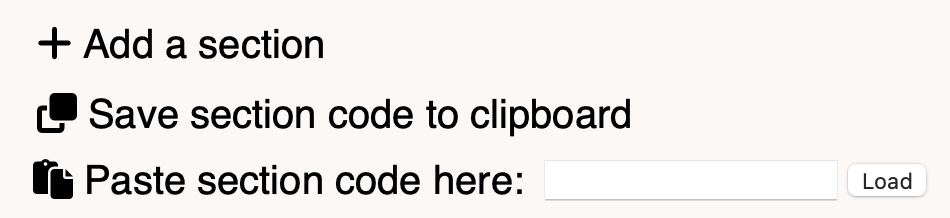
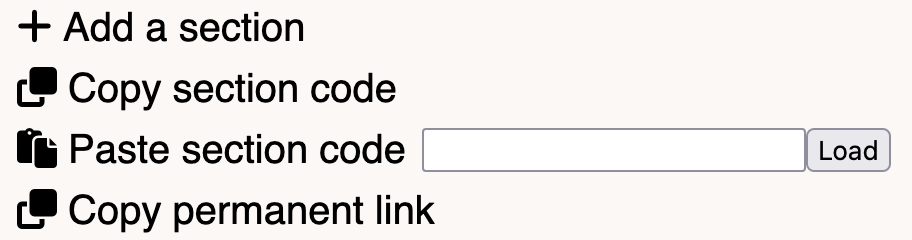
Update help page

Changed region(s): [[0.0, 0.055, 0.9825, 0.9633], [0.8904, 0.7982, 0.9825, 0.9083], [0.5526, 0.9083, 0.8904, 0.9358]]

diff --git a/help.html b/help.html
@@ -54,45 +54,51 @@
             <hr />
             <noscript>This page does not need JavaScript to work, but the app does. Please enable it if you would like to use the app. The code can be found <a href="app.js" rel="nofollow">here</a>.<hr /></noscript>
             <h2 id="overview">Overview</h2>
-            <p>Transcribe is a cross-platform web app free for all to use that allows you to slow down and loop sections of an audio file to make transcription easier. You can <a href="#saving-progress">save and restore your progress</a> to work later on.</p>
+            <p>Transcribe is a free cross-platform web app for slowing down and looping sections of an audio file. You can upload your own audio files or choose from many existing ones in the <a href="library.html">song library</a>.</p>
             <div class="link-button-container">
                 <a href="index.html" id="app-button" class="link-button" style="display: none;"><strong>Go to app</strong></a>
             </div>
             <img src="assets/img/full-app-example-v1.png" alt="The application in use to transcribe a solo.">
-            <p>If you have any questions not answered by this help page or want further clarification, <a href="https://github.com/ethanuppal/transcribe/issues/new">feel free to send me a question on the project page</a>.</p>
-            <p>If you're wondering how to transcribe, JazzAdvice.com is an excellent resource. <a href="https://www.jazzadvice.com/lessons/getting-started-with-transcription/">This post</a>, for example, has a wealth of information and links to many others.</p>
+            <p>Here are a couple notes:</p>
+            <ul>
+                <li><p>If you have any questions not answered by this help page or want further clarification, <a href="https://github.com/ethanuppal/transcribe/issues/new">feel free to send me a question on the project page</a>.</p></li>
+                <li><p>If you're wondering how to transcribe, JazzAdvice.com is an excellent resource. <a href="https://www.jazzadvice.com/lessons/getting-started-with-transcription/">This post</a>, for example, has a wealth of information and links to many others.</p></li>
+            </ul>
             <h2 id="uploading-files">Uploading Files</h2>
-            <p>To upload a file, simply click the button indicated at the top of the screen. When you upload a file, even if it is the same file as before, all your progress will be cleared, so make sure to save.</p>
+            <p>To upload a file, simply click the button indicated at the top of the screen. When you upload a file, the app will generate a fresh workspace, so make sure to save your previous work or open the app in a new tab.</p>
             <img src="assets/img/after-upload.png" alt="The workspace after a file has been uploaded.">
-            <p>Uploading a file will, as said above, generate a fresh workspace. The workspace includes the <a href="#using-the-player">player</a> and <a href="#adding-the-sections">the section editor</a>.</p>
+            <p>The workspace includes the <a href="#using-the-player">player</a> and <a href="#adding-the-sections">the section editor</a>. This is a fancy colorful diagram I spent too long making:</p>
             <img src="assets/img/workspace.png" alt="A diagram of the workspace.">
             <h2 id="using-the-player">Using the Player</h2>
             <p>There are three buttons in the audio player. The left arrow button goes to the beginning of the audio; the right arrow goes to the end; and the play button starts and stops it.</p>
-            <p>When in a section, the beginning- and end-jumping buttons will only go to the bounds specified.</p>
+            <p>When in a section, the start- and end-jumping buttons will only go to the bounds specified. For example, if the starting location is at 1 minute and 30 seconds, pressing the start-jumping button will move the playhead to the 1 minute and 30 second mark.</p>
             <h2 id="adding-the-sections">Adding the Sections</h2>
-            <p>The following three buttons are the entire interface for the section editor.</p>
-            <img src="assets/img/section-editor.png" alt="The section editor showing the buttons to add, save, and load sections.">
-            <p>The <strong>add section</strong> button creates a new section at the bottom of the page.</p>
-            <p>The <strong>save section</strong> button will copy some text that represents the sections you have made. More on saving in <a href="#saving-progress">this section</a>.</p>
-            <p>The <strong>paste section</strong> button will paste into the text box. The small <strong>load</strong> to the right will restore your progress based on what you pasted in. More on loading in <a href="#saving-progress">this section</a>.</p>
-            <p>There is a <strong>copy link</strong> button which will copy a link to your progress, which may be a more convenient way to save your progress. Note: the links may become very long for complex workspaces.</p>
-            <h2>Modifying the Sections</h2>
-            <img src="assets/img/example-section.png" alt="A blank section in the section editor.">
-            <p>Here is what all the boxes are for:</p>
+            <p>The section editor menu has three buttons:</p>
+            <img src="assets/img/section-editor.png" alt="The section editor with the buttons to add, save, and load sections.">
             <ul>
-                <li>Enter the name of the section into the Name box.</li>
-                <li>Enter the start time of the section into the Start box, following a MM:SS (minute:second) timestamp format.</li>
-                <li>Enter the start time of the section into the End box, following a MM:SS timestamp format.</li>
-                <li>Enter the speed of the section into the Speed box.</li>
-                <li>Check or uncheck the Loop box to toggle looping.</li>
+                <li><p>The <strong>add a section</strong> button creates a new section at the bottom of the page.</p></li>
+                <li><p>The <strong>copy section code</strong> button copies a code that represents the sections you have made.</p></li>
+                <li>
+                <p>The <strong>paste section code</strong> button paste into the text box. The small <strong>load</strong> to the right will restore your progress based on what you pasted in.</p></li>
+                <li><p>The <strong>copy permanent link</strong> button copies a link you can use to access your progress later. This may be more convienient than copying the section code and pasting it later. <em>Note: the links may become very long for complex workspaces.</em></p></li>
             </ul>
-            <p>Press the trash button at the top-right of a section to <strong>irreversibly</strong> delete a section.</p>
+            <h2>Modifying the Sections</h2>
+            <p>Using the section editor menu, you can create new sections. Once you have created a section, you can customize it.</p>
+            <img src="assets/img/example-section.png" alt="A blank section in the section editor.">
+            <ul>
+                <li>Enter the name of the section into the <strong>Section Name</strong> box.</li>
+                <li>Enter the start time of the section into the <strong>Start</strong> box, following a MM:SS (minute:second) timestamp format.</li>
+                <li>Enter the start time of the section into the <strong>End</strong> box, following a MM:SS timestamp format.</li>
+                <li>Enter the speed of the section into the <strong>Speed</strong> box. A speed of 1 indicates 100% and a speed of 0.5 indicates 50%.</li>
+                <li>Check or uncheck the <strong>Loop</strong> box to toggle whether the section will repeat from its start once it has finished playing.</li>
+            </ul>
+            <p>Press the trash button at the top-right of a section to <u>irreversibly</u> delete a section.</p>
             <h2 id="saving-progress">Saving your Progress</h2>
-            <p>This website does not store any data—audio files or sections—on servers or locally. Therefore, you must take initiative to save your progress.</p>
+            <p>As long as you keep the tab open, the app will automatically save your progress. If you accidently close the tab, look in your browser history and click on the most recent link to the website. You can alo manually save your progress by copying the section code or a special link.</p>
             <img src="assets/img/section-editor.png" alt="The section editor showing the buttons to add, save, and load sections.">
-            <p>Press the save button to copy the <a href="#advanced">"section code"</a> to your clipboard. This bizarre-looking string of letters is what encodes all the information needed to bring back your progress.</p>
-            <p>This section code does NOT have your audio file, so you must keep that as well. I recommend keeping the audio files in a cloud provider such as Google Drive <em>or (safer) an E2E version</em> and the section codes in any cloud text editor such as Google Docs <em>or (safer) the notes app on your device if it has one</em>.</p>
-            <h2 id="lol">The Website Looks Weird</h2>
+            <p>Clicking the <strong>copy section code</strong> button copies a <a href="#advanced">"section code"</a> to your clipboard. This bizarre-looking string of letters is what encodes your progress.</p>
+            <p>This section code does NOT have your audio file, so you must keep that as well. I keep my audio files in a cloud provider like Google Drive.</p>
+            <h2 id="lol">The Website Looks Weird :(</h2>
             <p>The color scheme of this website is abysmal, and I apologize in advance for that.</p>
             <h2 id="advanced">Advanced</h2>
             <p><strong>This section is only for advanced users.</strong></p>
@@ -115,11 +121,11 @@
     ]
 }
             </pre>
-            <p>You can reorder the way the sections appear in the app by reordering the corresponding JSON objects in the sections array.</p>
+            <p>You can reorder the way the sections appear in the app by reordering the corresponding JSON objects in the sections array. I aim to make this a more approachable feature soon.</p>
             <hr />
             <h4 id="privacy-policy">Privacy Policy</h4>
-            <p>This website does not and will never (1) collect any information about its users, (2) sell any information about its users, (3) track its users, or (4) attempt to invade the their privacy in any way; there are no logs, and no tracking software such as Google Analytics is contacted.</p>
-            <p>The <a href="index.html">app</a> requires JavaScript to function, including <a href="app.js" rel="nofollow">app.js</a> file and inline scripts in the <a href="https://github.com/ethanuppal/transcribe/blob/main/index.html" rel="nofollow">index.html</a> file. All js files can be viewed on the GitHub. This page will also run JavaScript in the form of <a href="https://github.com/ethanuppal/transcribe/blob/main/help.html" rel="nofollow">inline scripts</a>, but it does not need to do so to function.</p>
+            <p>Please see <a href="https://ethanuppal.github.io/privacy.html">ethanuppal.github.io/privacy.html</a>, but the TL;DR is that I collect no information about you.</p>
+            <p>The <a href="index.html">app</a> requires JavaScript, including <a href="app.js" rel="nofollow">app.js</a> file and inline scripts in the <a href="https://github.com/ethanuppal/transcribe/blob/main/index.html" rel="nofollow">index.html</a> file, to function. All JavaScript files can be viewed on the GitHub. This page will also run JavaScript in the form of <a href="https://github.com/ethanuppal/transcribe/blob/main/help.html" rel="nofollow">inline scripts</a>, but it does not need to do so to function.</p>
             <h4 id='other-notes'>Other Notes</h4>
             <ul>
                 <li>I host this website through <a href="https://pages.github.com" rel="nofollow">GitHub pages</a>.</li>

diff --git a/app.js b/app.js
@@ -75,14 +75,14 @@ $(document).ready(function() {
 
     // https://stackoverflow.com/questions/2907367/have-a-div-cling-to-top-of-screen-if-scrolled-down-past-it
     // Cache selectors outside callback for performance.
-    var $window = $(window),
-        $stickyEl = $('#player'),
-        elTop = $stickyEl.offset().top;
-
-    $window.scroll(function() {
-        //console.log($window.scrollTop() > elTop);
-         $stickyEl.toggleClass('sticky', $window.scrollTop() > elTop);
-     });
+    // var $window = $(window),
+    //     $stickyEl = $('#player'),
+    //     elTop = $stickyEl.offset().top;
+    //
+    // $window.scroll(function() {
+    //     //console.log($window.scrollTop() > elTop);
+    //      $stickyEl.toggleClass('sticky', $window.scrollTop() > elTop);
+    //  });
 });
 
 function setIconBasedOnAudioPause(icon) {
